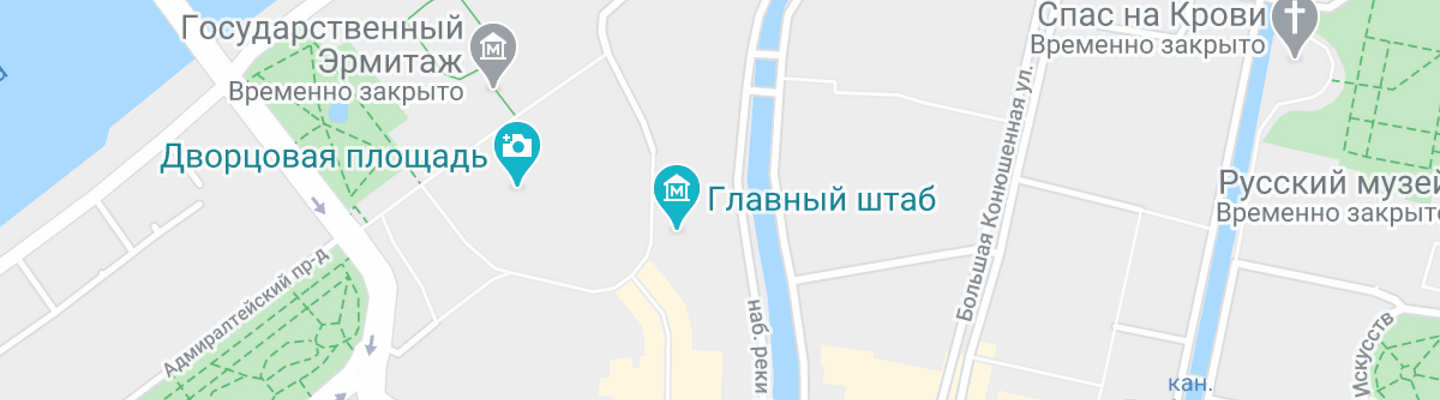
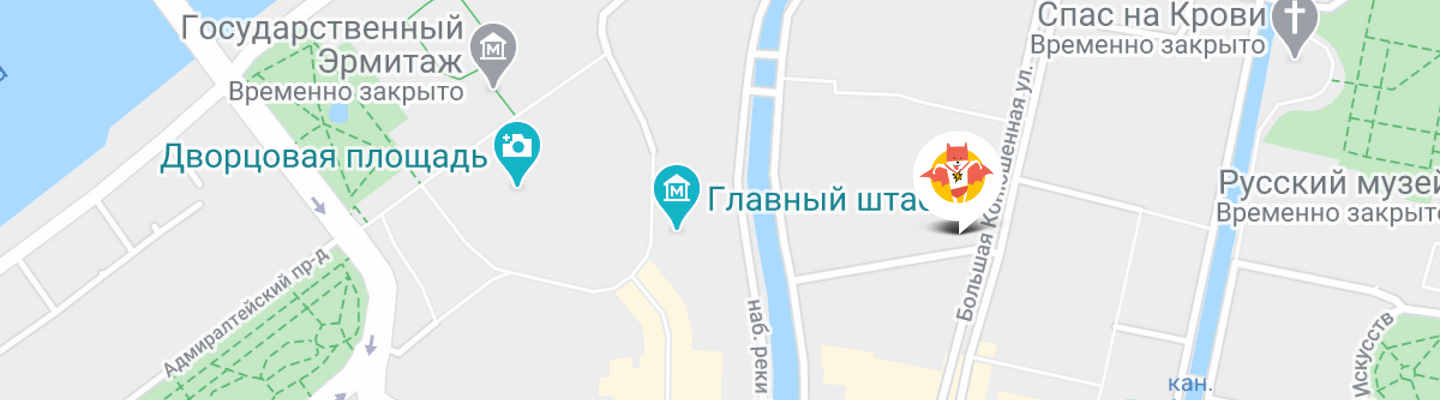
Добавляет  финальные исправления в графику

Changed region(s): [[0.625, 0.36, 0.7188, 0.51], [0.625, 0.54, 0.6875, 0.6]]

diff --git a/source/index.html b/source/index.html
@@ -42,7 +42,7 @@
       <p class="hero__description">Занялся собой? Займись котом!</p>
       <picture>
         <source media="(min-width: 1440px)" width="552" height="499" type="image/png" srcset="images/hero-can-desktop@1x.png 1x, images/hero-can-desktop@2x.png 2x">
-        <source media="(min-width: 768px)" width="709" height="609" type="image/jpg" srcset="images/hero-can-tablet@1x.jpg 1x, images/hero-can-tablet@2x.jpg 2x">
+        <source media="(min-width: 768px)" width="709" height="609" type="image/png" srcset="images/hero-can-tablet@1x.png, images/hero-can-tablet@2x.png 2x">
         <img class="hero__image" src="images/hero-can-mobile@1x.png" width="280" height="270" srcset="images/hero-can-mobile@2x.png 2x" alt="Упаковка корма с курицей">
       </picture>
       <a class="hero__button" href="form.html">Подобрать программу</a>
@@ -133,11 +133,11 @@
         <p class="contacts__text">Приглашаем к сотрудничеству дилеров!</p>
         <p class="contacts__address">ул. Большая Конюшенная, д. 19/8 Санкт-Петербург</p>
         <div class="contacts__map map">
-          <!-- <picture>
+          <picture>
             <source media="(min-width: 1440px)" width="1440" height="400" type="image/png" srcset="images/map-desktop@1x.png 1x, images/map-desktop@2x.png 2x">
             <source media="(min-width: 768px)" width="768" height="400" type="image/png" srcset="images/map-tablet@1x.png 1x, images/map-tablet@2x.png 2x">
-            <img class="map__image" src="images/map-mobile@1x.png" width="320" height="362" srcset="images/map-mobile@2x.png 2x" alt="Местонахождение офиса на карте">
-          </picture> -->
+            <img class="map__image" src="images/map-mobile@1x.png" width="320" height="362" srcset="images/map-desktop@2x.png 2x" alt="Местонахождение офиса на карте">
+          </picture>
         </div>
       </section>
       <a class="page-footer__logo logotype" href="index.html">

diff --git a/source/catalog.html b/source/catalog.html
@@ -318,11 +318,11 @@
         <p class="contacts__text">Приглашаем к сотрудничеству дилеров!</p>
         <p class="contacts__address">ул. Большая Конюшенная, д. 19/8 Санкт-Петербург</p>
         <div class="contacts__map map">
-          <!-- <picture>
+          <picture>
             <source media="(min-width: 1440px)" width="1440" height="400" type="image/png" srcset="images/map-desktop@1x.png 1x, images/map-desktop@2x.png 2x">
             <source media="(min-width: 768px)" width="768" height="600" type="image/png" srcset="images/map-tablet@1x.png 1x, images/map-tablet@2x.png 2x">
             <img class="map__image" src="images/map-mobile@1x.png" width="320" height="362" srcset="images/map-mobile@2x.png 2x" alt="Местонахождение офиса на карте">
-          </picture> -->
+          </picture>
         </div>
       </section>
       <a class="page-footer__logo logotype" href="index.html">
